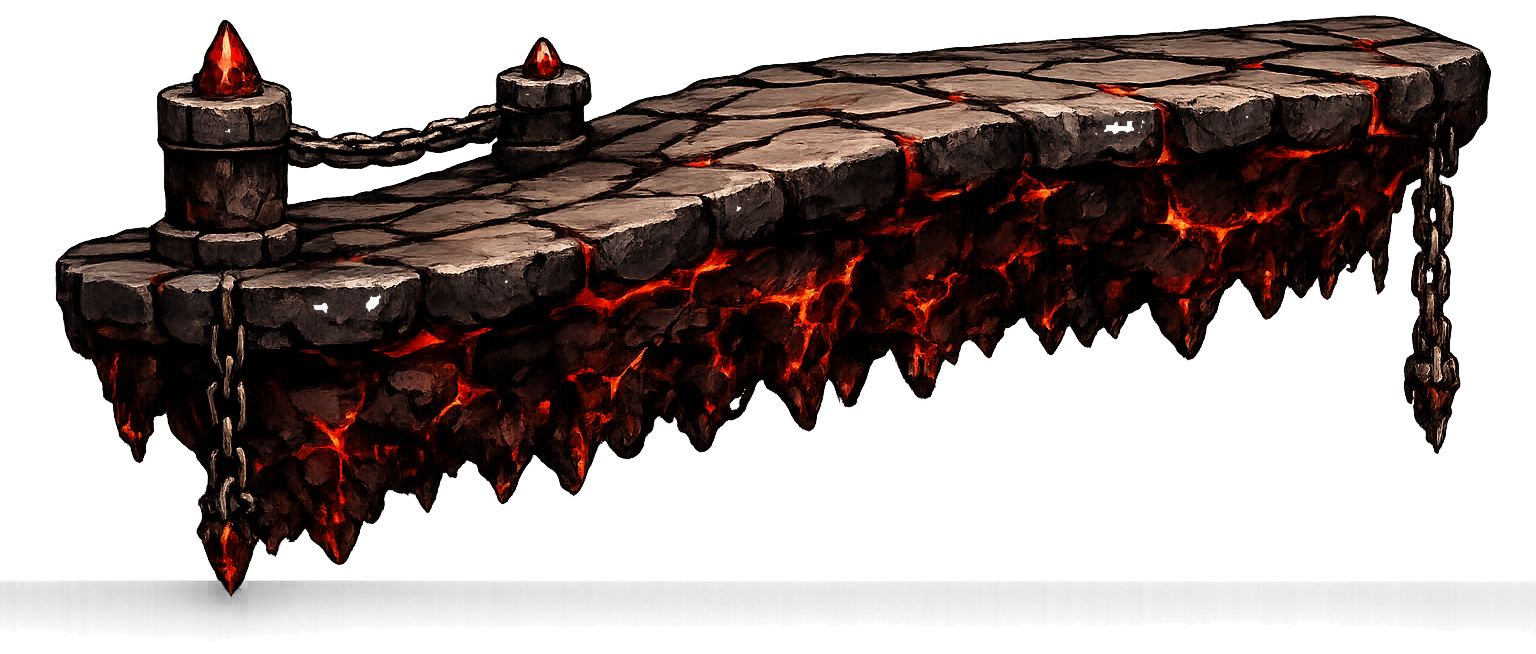
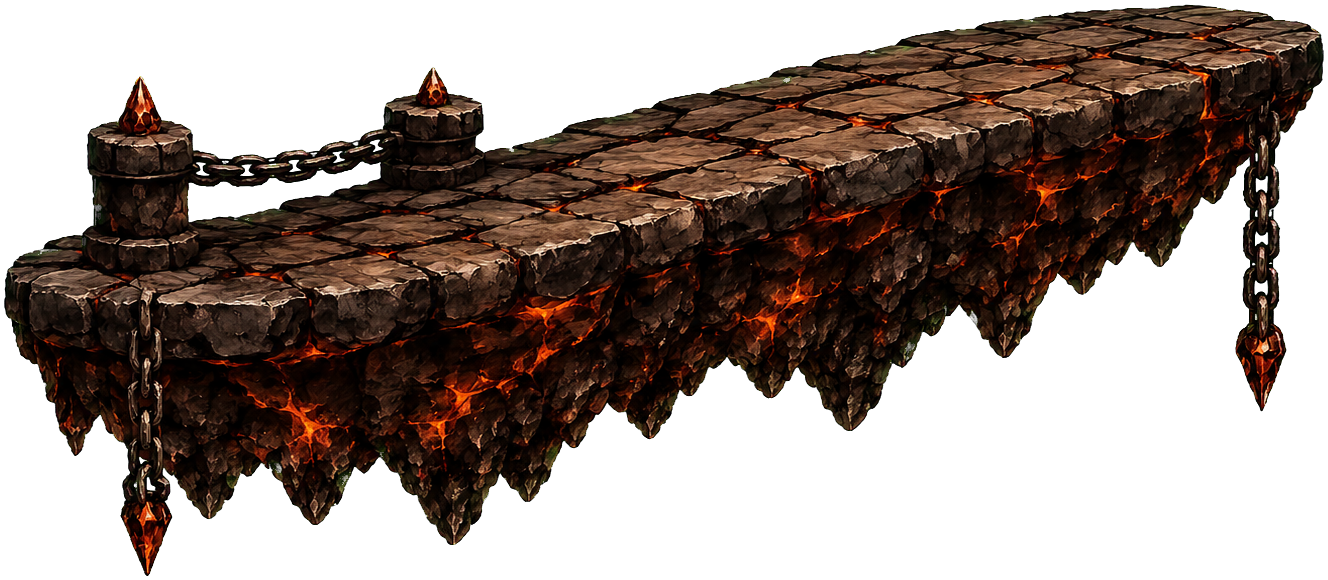
Replace platform 08 with inclined lava platform

diff --git a/app.js b/app.js
@@ -2097,6 +2097,7 @@ function startColtRunGame() {
   platformAssetVersions[1] = "20260718-platform02-replace1";
   platformAssetVersions[3] = "20260718-platform04-replace1";
   platformAssetVersions[4] = "20260718-platform05-replace1";
+  platformAssetVersions[7] = "20260721-platform08-incline1";
   platformAssetVersions[8] = "20260718-platform09-replace1";
   platformAssetVersions[9] = "20260719-platform10-replace1";
   platformAssetVersions[10] = "20260719-platform11-replace1";
@@ -2124,7 +2125,7 @@ function startColtRunGame() {
   const platformSurfaceRatios = [0.24, 0.27, 0.20, 0.18, 0.24, 0.27, 0.22, 0.25, 0.35, 0.24, 0.23, 0.22, 0.42, 0.52, 0.41, 0.13, 0.52, 0.50, 0.50, 0.50, 0.22, 0.18];
   const platformCollisionProfiles = {
     0: { offsetY: 10 },
-    7: { leftSurfaceRatio: 0.43, rightSurfaceRatio: 0.08 }
+    7: { leftSurfaceRatio: 0.47, rightSurfaceRatio: 0.03 }
   };
 
   const getPlatformDrawSize = platform => {

diff --git a/index.html b/index.html
@@ -8,7 +8,7 @@
 </head>
 <body>
   <main id="app" class="app-shell"></main>
-  <script src="app.js?v=20260720-remove-old-colt-platform1"></script>
+  <script src="app.js?v=20260721-platform08-incline1"></script>
 </body>
 </html>
 
